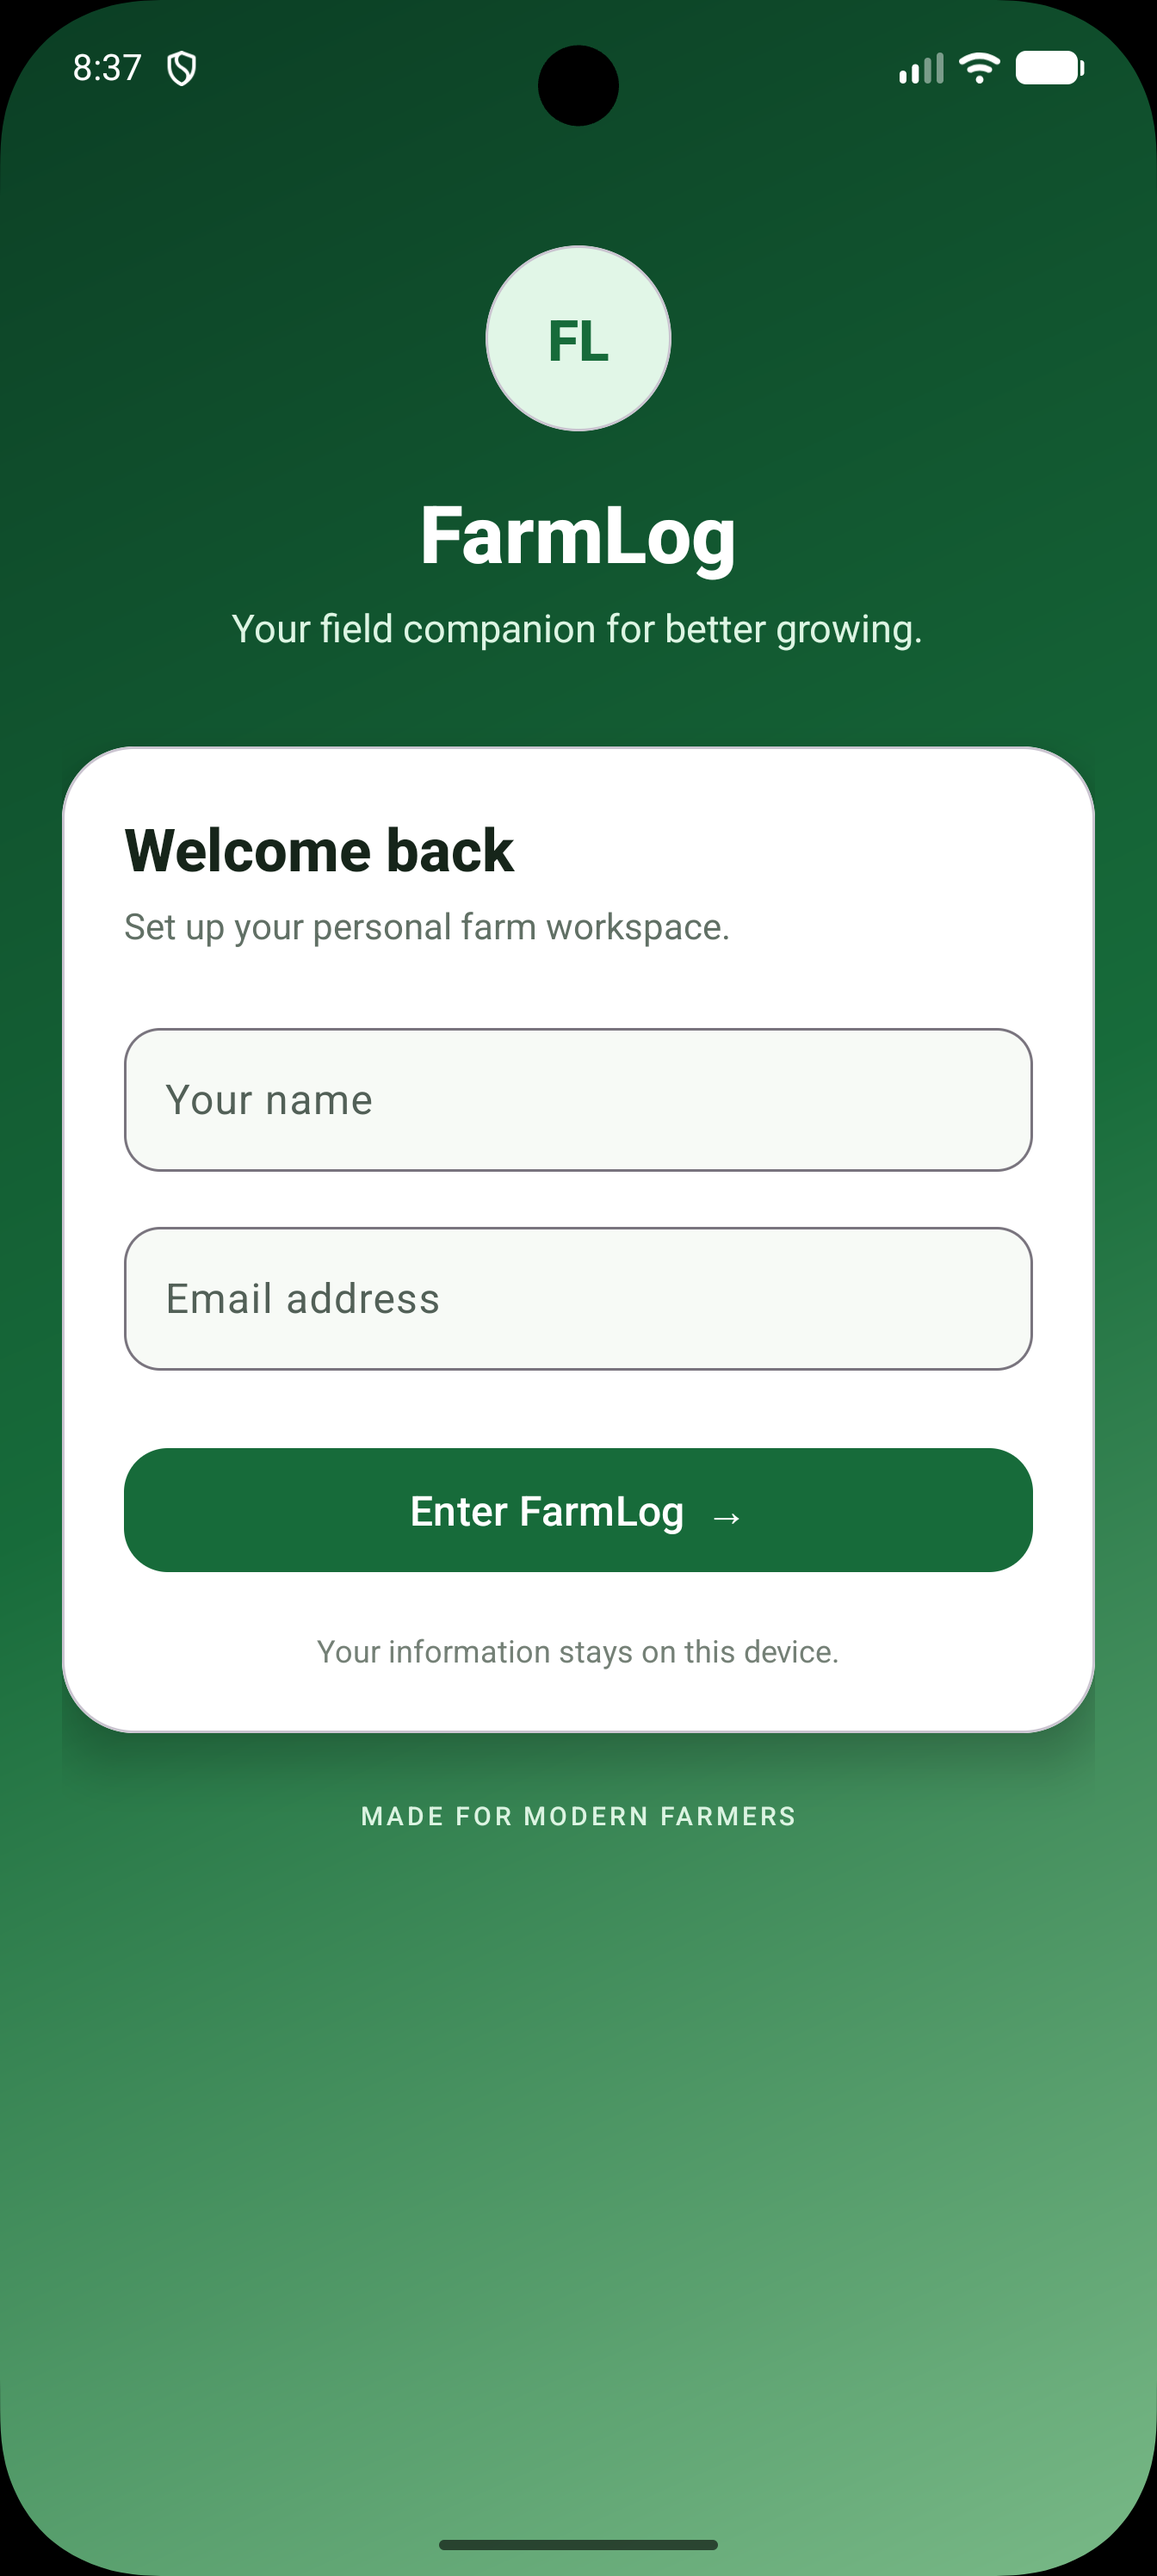
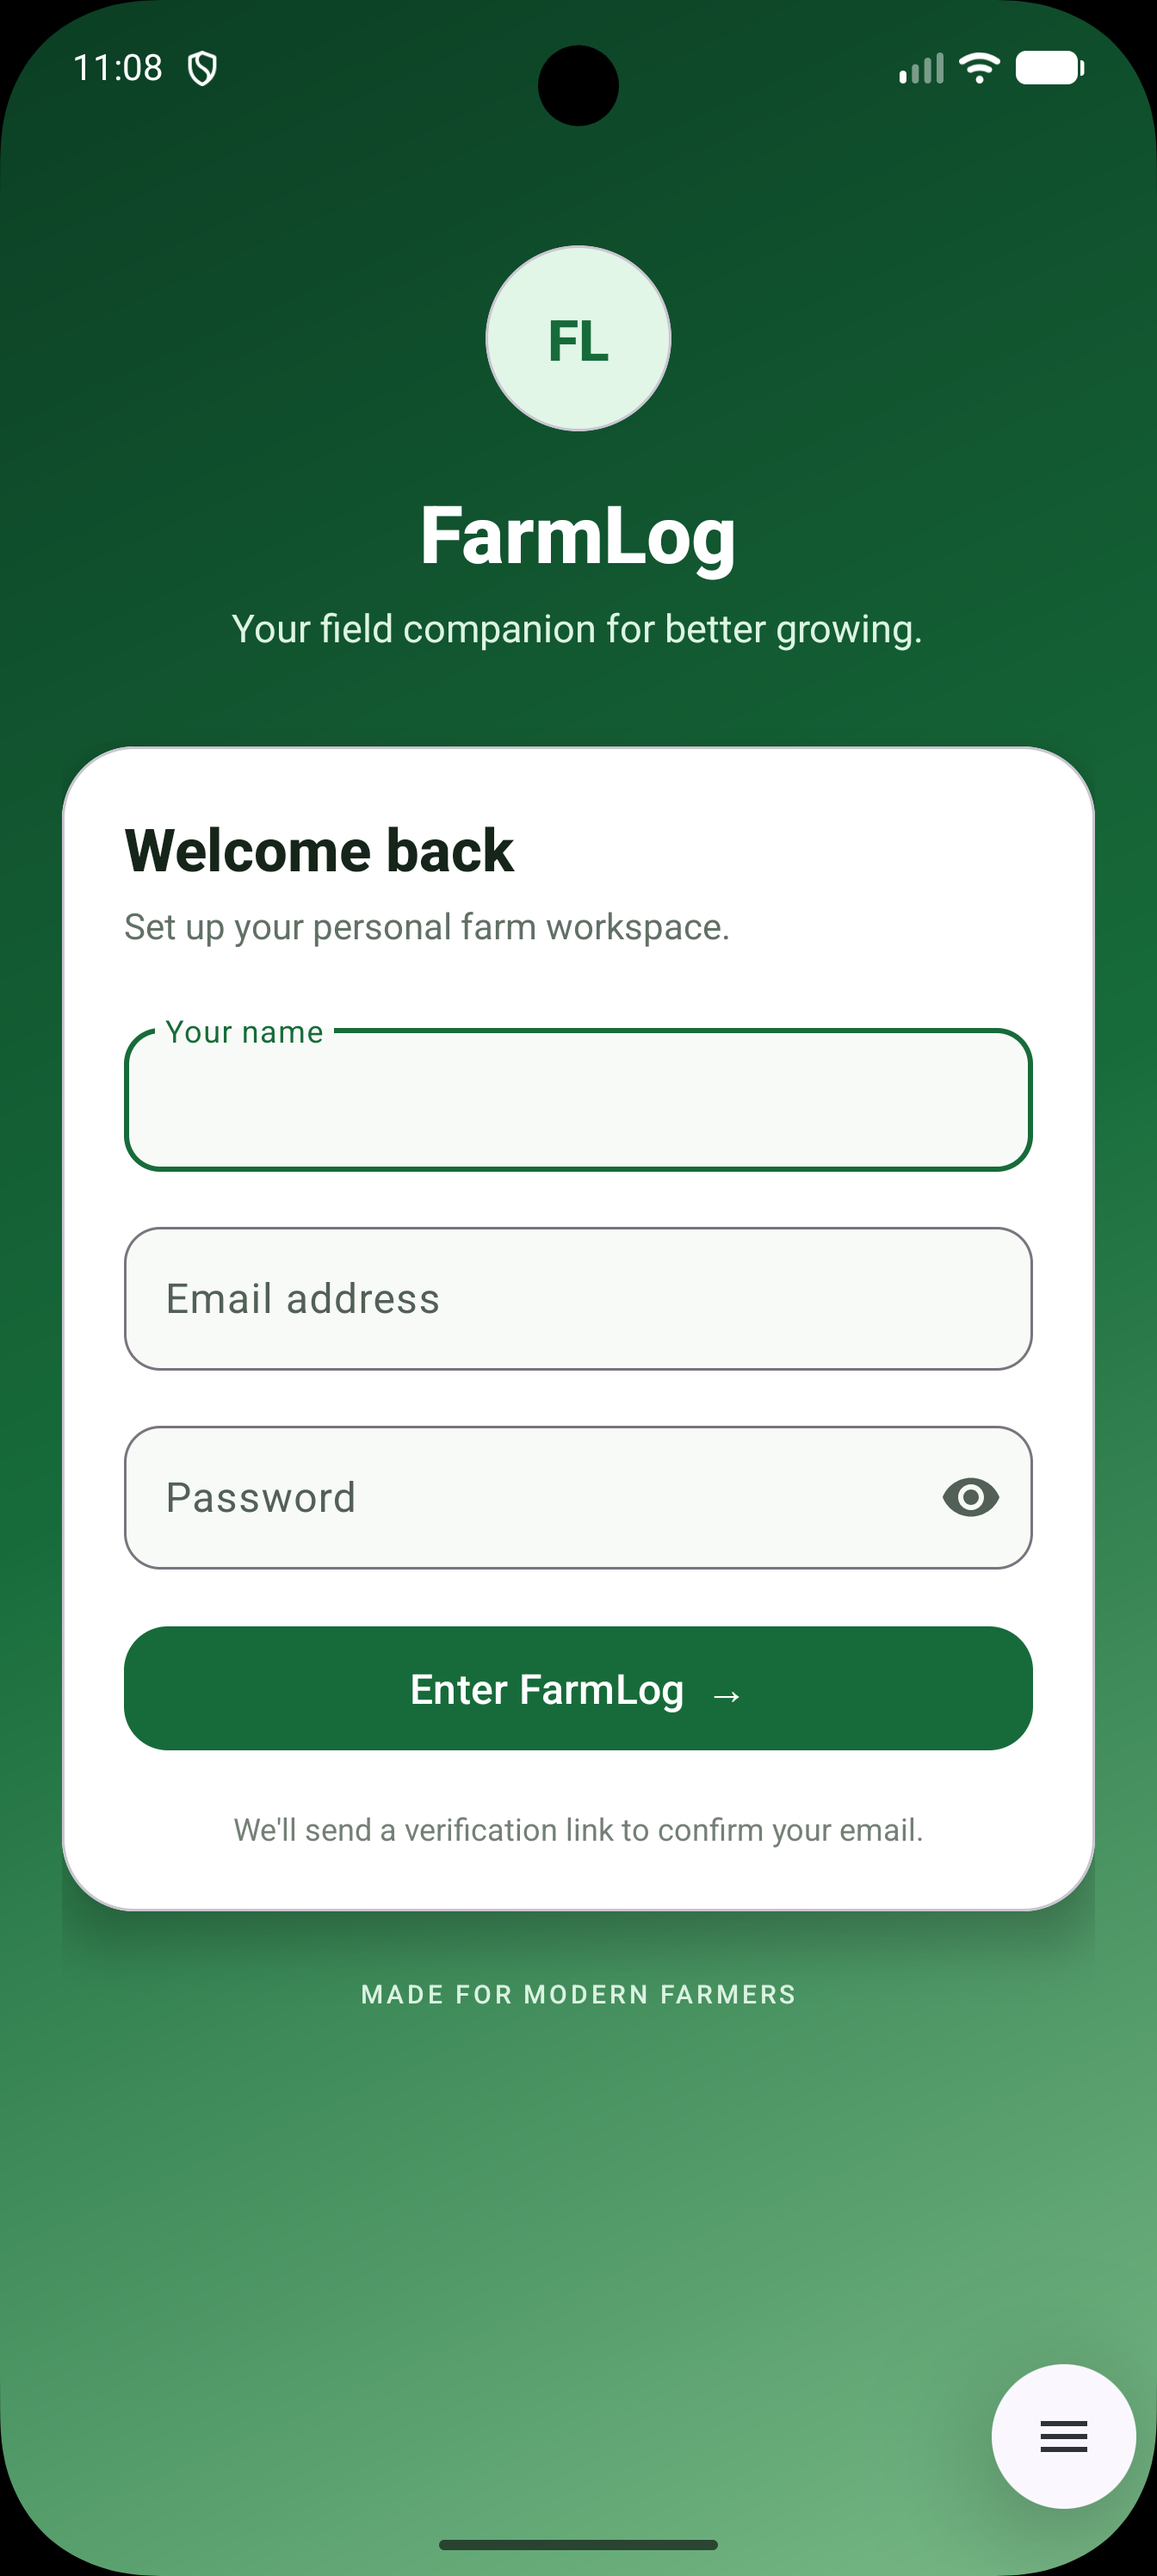
initial

diff --git a/app/src/main/java/com/example/mad_24012011097_assignment/LoginActivity.kt b/app/src/main/java/com/example/mad_24012011097_assignment/LoginActivity.kt
@@ -2,7 +2,8 @@ package com.example.mad_24012011097_assignment
 
 import android.content.Intent
 import android.os.Bundle
-import android.util.Patterns
+import android.view.View
+import androidx.activity.OnBackPressedCallback
 import android.view.inputmethod.EditorInfo
 import android.view.animation.DecelerateInterpolator
 import android.view.animation.OvershootInterpolator
@@ -12,10 +13,19 @@ import androidx.core.view.WindowCompat
 import androidx.core.view.WindowInsetsCompat
 import androidx.core.view.updatePadding
 import com.example.mad_24012011097_assignment.databinding.ActivityLoginBinding
+import com.google.firebase.auth.FirebaseAuth
+import com.google.firebase.auth.FirebaseAuthInvalidCredentialsException
+import com.google.firebase.auth.FirebaseAuthInvalidUserException
+import com.google.firebase.auth.FirebaseAuthUserCollisionException
+import com.google.firebase.auth.FirebaseAuthWeakPasswordException
+import com.google.firebase.auth.userProfileChangeRequest
+import java.util.regex.Pattern
 
 class LoginActivity : AppCompatActivity() {
 
     private lateinit var binding: ActivityLoginBinding
+    private val auth by lazy { FirebaseAuth.getInstance() }
+    private var isAwaitingVerification = false
 
     override fun onCreate(savedInstanceState: Bundle?) {
         super.onCreate(savedInstanceState)
@@ -25,20 +35,28 @@ class LoginActivity : AppCompatActivity() {
 
         applySystemBarInsets()
 
-        val preferences = getSharedPreferences(PREFS_NAME, MODE_PRIVATE)
-
-        if (preferences.getBoolean(KEY_IS_LOGGED_IN, false)) {
-            openDashboard()
-            return
+        val currentUser = auth.currentUser
+        if (currentUser != null) {
+            currentUser.reload().addOnCompleteListener {
+                playLoginAnimation()
+                if (currentUser.isEmailVerified) {
+                    persistSessionAndOpenDashboard(
+                        currentUser.displayName.orEmpty(),
+                        currentUser.email.orEmpty()
+                    )
+                } else {
+                    showVerificationPending(currentUser.email.orEmpty())
+                }
+            }
+        } else {
+            playLoginAnimation()
         }
-
-        playLoginAnimation()
 
         binding.btnContinue.setOnClickListener {
             animateButtonAndContinue()
         }
 
-        binding.editEmail.setOnEditorActionListener { _, actionId, _ ->
+        binding.editPassword.setOnEditorActionListener { _, actionId, _ ->
             if (actionId == EditorInfo.IME_ACTION_DONE) {
                 animateButtonAndContinue()
                 true
@@ -46,6 +64,28 @@ class LoginActivity : AppCompatActivity() {
                 false
             }
         }
+
+        binding.tvResend.setOnClickListener {
+            resendVerificationEmail()
+        }
+
+        binding.tvUseDifferentEmail.setOnClickListener {
+            resetToLoginForm()
+        }
+
+        onBackPressedDispatcher.addCallback(
+            this,
+            object : OnBackPressedCallback(true) {
+                override fun handleOnBackPressed() {
+                    if (isAwaitingVerification) {
+                        resetToLoginForm()
+                    } else {
+                        isEnabled = false
+                        onBackPressedDispatcher.onBackPressed()
+                    }
+                }
+            }
+        )
     }
 
     private fun applySystemBarInsets() {
@@ -115,7 +155,11 @@ class LoginActivity : AppCompatActivity() {
                     .setDuration(140L)
                     .start()
 
-                validateAndContinue()
+                if (isAwaitingVerification) {
+                    checkVerificationAndContinue()
+                } else {
+                    validateAndContinue()
+                }
             }
             .start()
     }
@@ -123,9 +167,12 @@ class LoginActivity : AppCompatActivity() {
     private fun validateAndContinue() {
         val name = binding.editName.text.toString().trim()
         val email = binding.editEmail.text.toString().trim().lowercase()
+        val password = binding.editPassword.text.toString()
 
         binding.nameLayout.error = null
         binding.emailLayout.error = null
+        binding.passwordLayout.error = null
+        hideStatusMessage()
 
         var isValid = true
 
@@ -134,13 +181,154 @@ class LoginActivity : AppCompatActivity() {
             isValid = false
         }
 
-        if (!Patterns.EMAIL_ADDRESS.matcher(email).matches()) {
+        if (!EMAIL_REGEX.matcher(email).matches()) {
             binding.emailLayout.error = "Enter a valid email address"
+            isValid = false
+        }
+
+        if (password.length < 6) {
+            binding.passwordLayout.error = "Use at least 6 characters"
             isValid = false
         }
 
         if (!isValid) return
 
+        setFormEnabled(false)
+
+        auth.createUserWithEmailAndPassword(email, password)
+            .addOnSuccessListener { result ->
+                setFormEnabled(true)
+                val user = result.user
+                user?.updateProfile(userProfileChangeRequest { displayName = name })
+                user?.sendEmailVerification()
+                showVerificationPending(email)
+            }
+            .addOnFailureListener { exception ->
+                if (exception is FirebaseAuthUserCollisionException) {
+                    signInExistingUser(email, password)
+                } else {
+                    setFormEnabled(true)
+                    binding.passwordLayout.error = when (exception) {
+                        is FirebaseAuthWeakPasswordException -> "Password is too weak"
+                        else -> exception.localizedMessage ?: "Something went wrong. Try again."
+                    }
+                }
+            }
+    }
+
+    private fun signInExistingUser(email: String, password: String) {
+        auth.signInWithEmailAndPassword(email, password)
+            .addOnSuccessListener { result ->
+                setFormEnabled(true)
+                val user = result.user ?: return@addOnSuccessListener
+                if (user.isEmailVerified) {
+                    persistSessionAndOpenDashboard(
+                        user.displayName ?: binding.editName.text.toString().trim(),
+                        email
+                    )
+                } else {
+                    user.sendEmailVerification()
+                    showVerificationPending(email)
+                }
+            }
+            .addOnFailureListener { exception ->
+                setFormEnabled(true)
+                binding.passwordLayout.error = when (exception) {
+                    is FirebaseAuthInvalidCredentialsException -> "Incorrect password for this email"
+                    is FirebaseAuthInvalidUserException -> "No account found for this email"
+                    else -> exception.localizedMessage ?: "Something went wrong. Try again."
+                }
+            }
+    }
+
+    private fun checkVerificationAndContinue() {
+        val user = auth.currentUser
+        if (user == null) {
+            isAwaitingVerification = false
+            return
+        }
+
+        setFormEnabled(false)
+
+        user.reload()
+            .addOnSuccessListener {
+                setFormEnabled(true)
+                if (user.isEmailVerified) {
+                    persistSessionAndOpenDashboard(user.displayName.orEmpty(), user.email.orEmpty())
+                } else {
+                    showStatusMessage("Still not verified. Check your inbox and tap the link, then try again.")
+                }
+            }
+            .addOnFailureListener {
+                setFormEnabled(true)
+                showStatusMessage(it.localizedMessage ?: "Couldn't check verification status. Try again.")
+            }
+    }
+
+    private fun resendVerificationEmail() {
+        val user = auth.currentUser ?: return
+
+        user.sendEmailVerification()
+            .addOnSuccessListener {
+                showStatusMessage("Verification email sent to ${user.email}.")
+            }
+            .addOnFailureListener {
+                showStatusMessage(it.localizedMessage ?: "Couldn't send email. Try again shortly.")
+            }
+    }
+
+    private fun showVerificationPending(email: String) {
+        isAwaitingVerification = true
+
+        binding.nameLayout.visibility = View.GONE
+        binding.emailLayout.visibility = View.GONE
+        binding.passwordLayout.visibility = View.GONE
+
+        binding.tvResend.visibility = View.VISIBLE
+        binding.tvUseDifferentEmail.visibility = View.VISIBLE
+        binding.btnContinue.text = "I've verified — Continue"
+
+        showStatusMessage("We sent a verification link to $email. Verify it, then tap Continue.")
+    }
+
+    private fun resetToLoginForm() {
+        auth.signOut()
+        isAwaitingVerification = false
+
+        binding.editEmail.text?.clear()
+        binding.editPassword.text?.clear()
+        binding.emailLayout.error = null
+        binding.passwordLayout.error = null
+
+        binding.nameLayout.visibility = View.VISIBLE
+        binding.emailLayout.visibility = View.VISIBLE
+        binding.passwordLayout.visibility = View.VISIBLE
+
+        binding.tvResend.visibility = View.GONE
+        binding.tvUseDifferentEmail.visibility = View.GONE
+        binding.btnContinue.text = "Enter FarmLog  →"
+
+        hideStatusMessage()
+        setFormEnabled(true)
+    }
+
+    private fun showStatusMessage(message: String) {
+        binding.tvStatusMessage.text = message
+        binding.tvStatusMessage.visibility = View.VISIBLE
+    }
+
+    private fun hideStatusMessage() {
+        binding.tvStatusMessage.visibility = View.GONE
+    }
+
+    private fun setFormEnabled(enabled: Boolean) {
+        binding.btnContinue.isEnabled = enabled
+        binding.editName.isEnabled = enabled
+        binding.editEmail.isEnabled = enabled
+        binding.editPassword.isEnabled = enabled
+    }
+
+    private fun persistSessionAndOpenDashboard(name: String, email: String) {
         getSharedPreferences(PREFS_NAME, MODE_PRIVATE)
             .edit()
             .putBoolean(KEY_IS_LOGGED_IN, true)
@@ -148,12 +336,7 @@ class LoginActivity : AppCompatActivity() {
             .putString(KEY_USER_EMAIL, email)
             .apply()
 
-        binding.btnContinue.isEnabled = false
-        binding.btnContinue.text = "Welcome, ${name.substringBefore(" ")}"
-
-        binding.btnContinue.postDelayed({
-            openDashboard()
-        }, 420L)
+        openDashboard()
     }
 
     private fun openDashboard() {
@@ -166,5 +349,14 @@ class LoginActivity : AppCompatActivity() {
         private const val KEY_IS_LOGGED_IN = "is_logged_in"
         private const val KEY_USER_NAME = "user_name"
         private const val KEY_USER_EMAIL = "user_email"
+
+        // Stricter than Patterns.EMAIL_ADDRESS: rejects leading/trailing dots,
+        // consecutive dots, and requires an alphabetic TLD of at least 2 chars.
+        private val EMAIL_REGEX = Pattern.compile(
+            "^[A-Za-z0-9](?:[A-Za-z0-9._%+-]*[A-Za-z0-9])?@" +
+                "[A-Za-z0-9](?:[A-Za-z0-9-]*[A-Za-z0-9])?" +
+                "(?:\\.[A-Za-z0-9](?:[A-Za-z0-9-]*[A-Za-z0-9])?)*" +
+                "\\.[A-Za-z]{2,}$"
+        )
     }
 }

diff --git a/app/src/main/java/com/example/mad_24012011097_assignment/MainActivity.kt b/app/src/main/java/com/example/mad_24012011097_assignment/MainActivity.kt
@@ -25,6 +25,7 @@ import com.google.android.material.chip.ChipGroup
 import com.google.android.material.dialog.MaterialAlertDialogBuilder
 import com.google.android.material.floatingactionbutton.FloatingActionButton
 import com.google.android.material.snackbar.Snackbar
+import com.google.firebase.auth.FirebaseAuth
 import android.content.Intent
 class MainActivity : AppCompatActivity() {
 
@@ -148,6 +149,8 @@ class MainActivity : AppCompatActivity() {
             )
             .setNegativeButton("Stay logged in", null)
             .setPositiveButton("Log out") { _, _ ->
+                FirebaseAuth.getInstance().signOut()
+
                 getSharedPreferences(PREFS_NAME, MODE_PRIVATE)
                     .edit()
                     .clear()
